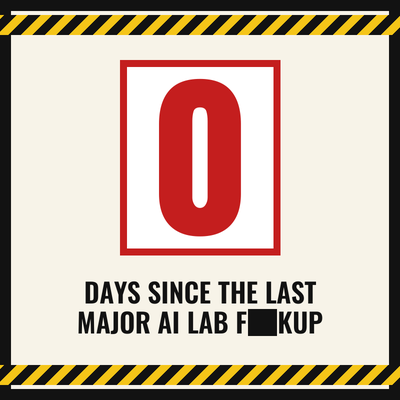
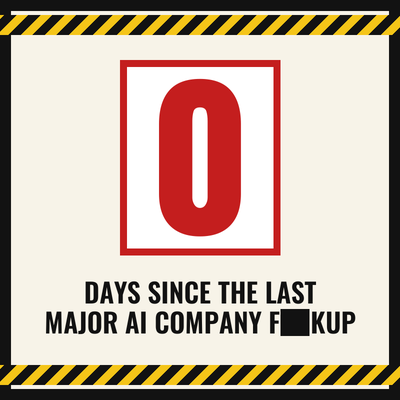
Say "company", not "lab", everywhere
keltan's call, and the reason is the point of the account: "lab" flatters
them. Laboratories are where careful people run controlled experiments.

Public wording: the sign, the post and alt text, the avatar and header art,
the display name, bio and rules thread, and the rubric. The data model follows
- incidents.yaml's `lab:` key is now `company:` across all 36 entries, with
the parser, the dataclass and the issue form's field renamed to match.

The bio had no room for the longer words at 159/160 characters, so its second
sentence is now "Resets when one of them has to apologise" - 156. Every
thread post re-checked against 280. The sign's main line auto-shrinks to fit
and the avatar still holds the longer wording.

Changed region(s): [[0.09, 0.75, 0.9, 0.84]]

diff --git a/post.py b/post.py
@@ -58,7 +58,7 @@ MAX_LEN = 280
 class Incident:
     id: str
     date: date
-    lab: str
+    company: str
     category: str
     tier: int
     resets: bool
@@ -70,7 +70,7 @@ class Incident:
     @classmethod
     def from_dict(cls, d: dict) -> "Incident":
         return cls(
-            id=d["id"], date=_as_date(d["date"]), lab=d["lab"], category=d["category"],
+            id=d["id"], date=_as_date(d["date"]), company=d["company"], category=d["category"],
             tier=int(d["tier"]), resets=bool(d["resets"]), tone=d.get("tone", "snark"),
             title=d["title"].strip(), detail=d.get("detail", "").strip(), source=d.get("source", "").strip(),
         )
@@ -114,7 +114,7 @@ def clip(text: str, limit: int = MAX_LEN) -> str:
 # ── message templates ───────────────────────────────────────────────────────
 
 def daily_text(days: int, record: int | None, is_new_record: bool, record_from: str | None) -> str:
-    head = f"{days_word(days)} since the last major AI lab {NOUN}."
+    head = f"{days_word(days)} since the last major AI company {NOUN}."
     if record is None:
         return clip(head)
     if is_new_record:
@@ -127,8 +127,8 @@ def daily_text(days: int, record: int | None, is_new_record: bool, record_from: 
 def reset_text(inc: Incident, streak: int, record: int | None) -> str:
     if inc.tone == "somber":
         # No jokes, no record-keeping flourish, no image.
-        return clip(f"Counter reset.\n\n{inc.lab}: {inc.title}")
-    body = f"Counter reset to 0.\n\n{inc.lab}: {inc.title}\n\nStreak ended at {days_word(streak)}."
+        return clip(f"Counter reset.\n\n{inc.company}: {inc.title}")
+    body = f"Counter reset to 0.\n\n{inc.company}: {inc.title}\n\nStreak ended at {days_word(streak)}."
     if record is not None and streak <= record:
         body += f" Previous record stands at {days_word(record)}."
     elif record is not None and streak > record:
@@ -142,7 +142,7 @@ def reply_text(inc: Incident) -> str:
 
 
 def mention_text(inc: Incident) -> str:
-    return clip(f"Noted but not counter-resetting (tier 2): {inc.lab} — {inc.title}\n\nSource: {inc.source}")
+    return clip(f"Noted but not counter-resetting (tier 2): {inc.company} — {inc.title}\n\nSource: {inc.source}")
 
 
 # ── posting backends ─────────────────────────────────────────────────────────
@@ -301,7 +301,7 @@ def main() -> None:
             backends.append(BlueskyPoster())
         poster = Fanout(backends)
 
-    last_label = f"{latest.date.isoformat()} · {latest.lab}"
+    last_label = f"{latest.date.isoformat()} · {latest.company}"
     # Somber rule: while the current reset is a somber one, the sign and the
     # captions say INCIDENT, not the swear. Reverts automatically at the next reset.
     global NOUN
@@ -318,7 +318,7 @@ def main() -> None:
         if latest.tone != "somber":
             img = OUT / "reset.png"
             render(0, record=prior_record, last=last_label, last_title=latest.title, handle=HANDLE, censor=censor).save(img)
-            alt = (f"Workplace-safety-style sign reading: This industry has gone 0 days since the last major AI lab {NOUN}. "
+            alt = (f"Workplace-safety-style sign reading: This industry has gone 0 days since the last major AI company {NOUN}. "
                    f"Last {NOUN}: {last_label} — {latest.title}")
         root = poster.post(text, img, alt)
         poster.post(reply_text(latest), reply_to=root)
@@ -328,7 +328,7 @@ def main() -> None:
         text = daily_text(days, record, is_new_record, record_from)
         img = OUT / "sign.png"
         render(days, record=record, last=last_label, last_title=latest.title, handle=HANDLE, censor=censor).save(img)
-        alt = (f"Workplace-safety-style sign reading: This industry has gone {days} days since the last major AI lab {NOUN}. "
+        alt = (f"Workplace-safety-style sign reading: This industry has gone {days} days since the last major AI company {NOUN}. "
                + (f"Previous record: {record} days. " if record is not None else "")
                + f"Last {NOUN}: {last_label} — {latest.title}")
         root = poster.post(text, img, alt)

diff --git a/scripts/issue_to_incident.py b/scripts/issue_to_incident.py
@@ -18,7 +18,7 @@ import yaml
 HERE = Path(__file__).resolve().parent.parent
 INCIDENTS = HERE / "incidents.yaml"
 
-LABELS = {"Date": "date", "Lab": "lab", "Tier": "tier", "Category": "category", "Tone": "tone",
+LABELS = {"Date": "date", "Company": "company", "Tier": "tier", "Category": "category", "Tone": "tone",
           "Title": "title", "Detail": "detail", "Source URL": "source", "Confidence": "confidence"}
 
 
@@ -28,7 +28,7 @@ def parse(body: str) -> dict:
         label, value = m.group(1).strip(), m.group(2).strip()
         if label in LABELS and value and value != "_No response_":
             fields[LABELS[label]] = value
-    missing = [k for k in ("date", "lab", "tier", "category", "title", "detail", "source") if k not in fields]
+    missing = [k for k in ("date", "company", "tier", "category", "title", "detail", "source") if k not in fields]
     if missing:
         sys.exit(f"missing fields: {missing}")
     if date.fromisoformat(fields["date"]) > date.today():
@@ -39,8 +39,8 @@ def parse(body: str) -> dict:
     return fields
 
 
-def slug(lab: str, title: str, d: str) -> str:
-    base = re.sub(r"[^a-z0-9]+", "-", f"{lab} {title}".lower()).strip("-")
+def slug(company: str, title: str, d: str) -> str:
+    base = re.sub(r"[^a-z0-9]+", "-", f"{company} {title}".lower()).strip("-")
     if len(base) > 48:
         base = base[:48].rsplit("-", 1)[0]
     existing = {i["id"] for i in yaml.safe_load(INCIDENTS.read_text(encoding="utf-8"))["incidents"]}
@@ -60,9 +60,9 @@ def main() -> None:
     body = Path(sys.argv[1]).read_text(encoding="utf-8")
     f = parse(body)
     entry = (
-        f"\n  - id: {slug(f['lab'], f['title'], f['date'])}\n"
+        f"\n  - id: {slug(f['company'], f['title'], f['date'])}\n"
         f"    date: {f['date']}\n"
-        f"    lab: {q(f['lab'])}\n"
+        f"    company: {q(f['company'])}\n"
         f"    category: {f['category']}\n"
         f"    tier: {f['tier']}\n"
         f"    resets: {'true' if f['tier'] == 1 else 'false'}\n"

diff --git a/profile_assets.py b/profile_assets.py
@@ -42,7 +42,7 @@ def avatar(censor: str) -> Image.Image:
     fl = rs.font("Oswald-Bold.ttf", 54, 600)
     rs.draw_censored(d, S / 2, 585, "DAYS SINCE THE LAST", fl, rs.BLACK, anchor="m")
     noun = rs.noun_forms(censor)[0]
-    rs.draw_censored(d, S / 2, 645, f"MAJOR AI LAB {noun}", fl, rs.BLACK, anchor="m")
+    rs.draw_censored(d, S / 2, 645, f"MAJOR AI COMPANY {noun}", fl, rs.BLACK, anchor="m")
     return img.resize((400, 400), Image.LANCZOS)
 
 
@@ -56,9 +56,9 @@ def header(censor: str) -> Image.Image:
     noun = rs.noun_forms(censor)[0]
     f = rs.font("Anton-Regular.ttf", 190)
     rs.draw_censored(d, W / 2, 380, "DAYS SINCE THE LAST", f, rs.BLACK, anchor="m")
-    rs.draw_censored(d, W / 2, 600, f"MAJOR AI LAB {noun}", f, rs.BLACK, anchor="m")
+    rs.draw_censored(d, W / 2, 600, f"MAJOR AI COMPANY {noun}", f, rs.BLACK, anchor="m")
     fs = rs.font("Oswald-Bold.ttf", 56, 500)
-    d.text((W / 2, 820), "ONE NUMBER, ONCE A DAY. RESETS WHEN A FRONTIER LAB HAS TO APOLOGISE.", font=fs, fill=rs.GREY, anchor="mm")
+    d.text((W / 2, 820), "ONE NUMBER, ONCE A DAY. RESETS WHEN A FRONTIER COMPANY HAS TO APOLOGISE.", font=fs, fill=rs.GREY, anchor="mm")
     return img.resize((1500, 500), Image.LANCZOS)
 
 

diff --git a/render_sign.py b/render_sign.py
@@ -1,5 +1,5 @@
 #!/usr/bin/env python3
-"""Render the "DAYS SINCE THE LAST MAJOR AI LAB F**KUP" sign as a PNG.
+"""Render the "DAYS SINCE THE LAST MAJOR AI COMPANY F**KUP" sign as a PNG.
 
 Usage:
     python render_sign.py --days 12 --record 47 --last "2026-01-08 · xAI" \
@@ -196,7 +196,7 @@ def render(days: int, *, record: int | None = None, last: str | None = None,
     d.text(((W - nw) / 2, by0 + (box_h - nh) / 2 - nb[1]), num, font=f_num, fill=accent)
 
     # main line
-    prefix = "DAYS SINCE THE LAST MAJOR AI LAB "
+    prefix = "DAYS SINCE THE LAST MAJOR AI COMPANY "
     f_main = fit(d, (prefix + noun_sign).replace(BAR, "UC"), "Anton-Regular.ttf", W - 200, 92, min_size=48)
     draw_censored(d, W / 2, 590, prefix + noun_sign, f_main, BLACK, anchor="m")
 

diff --git a/README.md b/README.md
@@ -1,6 +1,6 @@
-# Days Since The Last Major AI Lab F**kup
+# Days Since The Last Major AI Company F**kup
 
-An automated account that posts one number a day, on a workplace-safety sign, and resets it every time a frontier lab does something they have to apologise for.
+An automated account that posts one number a day, on a workplace-safety sign, and resets it every time a frontier AI company does something they have to apologise for.
 
 The joke is that the number is almost always small. The horror is that it's accurate.
 
@@ -8,11 +8,11 @@ The joke is that the number is almost always small. The horror is that it's accu
 
 ## Why it works (and what would make it stop working)
 
-**The format does the arguing.** A "DAYS WITHOUT AN ACCIDENT" sign is a symbol everyone already understands: it belongs in places where mistakes hurt people and the institution knows it. Putting it on AI labs makes the safety-culture argument without a single sentence of argument. Nobody has to read a thread. That's the whole pitch.
+**The format does the arguing.** A "DAYS WITHOUT AN ACCIDENT" sign is a symbol everyone already understands: it belongs in places where mistakes hurt people and the institution knows it. Putting it on AI companies makes the safety-culture argument without a single sentence of argument. Nobody has to read a thread. That's the whole pitch.
 
 **It only works if it's fair and boring.** The account's asset is credibility, and credibility here means:
 
-- Same rules for every lab. If it's only ever xAI and OpenAI, it reads as a grudge and gets dismissed as one. (Looking at the seed data, xAI would win the table on merit — but the rubric has to be visibly lab-agnostic so that fact does the talking.)
+- Same rules for every company. If it's only ever xAI and OpenAI, it reads as a grudge and gets dismissed as one. (Looking at the seed data, xAI would win the table on merit — but the rubric has to be visibly even-handed so that fact does the talking.)
 - Never wrong. One misdated or misdescribed incident and every reply is "this account made up X." Every entry needs a primary source before it posts.
 - Deadpan. No adjectives, no "lol", no dunking. The sign is the joke; the caption is a plain sentence. Restraint is what separates this from outrage content — which matters for the Project Icarus / PETA-failure-mode concern: you want the audience laughing *with* the counter, not feeling recruited by it.
 
@@ -20,7 +20,9 @@ The joke is that the number is almost always small. The horror is that it's accu
 
 ## What counts (the rubric)
 
-**Major AI lab** = organisations training frontier-scale models: OpenAI, Anthropic, Google DeepMind, Meta, xAI, Microsoft, DeepSeek, Mistral, Amazon, Alibaba/Qwen. Product companies (Character.AI, Replit, Perplexity) don't count.
+**Major AI company** = organisations training frontier-scale models: OpenAI, Anthropic, Google DeepMind, Meta, xAI, Microsoft, DeepSeek, Mistral, Amazon, Alibaba/Qwen. Companies that ship AI products without training frontier models (Character.AI, Replit, Perplexity) don't count.
+
+The account says "company", never "lab". The word does quiet work for them: laboratories are where careful people run controlled experiments, and that is not what is being described here.
 
 **Tier 1 — resets the counter.** Public, sourced, and one of:
 
@@ -31,11 +33,11 @@ The joke is that the number is almost always small. The horror is that it's accu
 | `governance` | safety team collapse, board crisis, NDA clawbacks — the "we are a responsible steward" story breaking |
 | `deception` | hidden system-prompt rules, benchmark chart crimes, undisclosed breaches |
 | `safety_process` | internal policy that permitted the harm (Meta's child-chat guidelines) |
-| `misuse` | **big** third-party misuse of a lab's model: nation-state actors, many victims, or the lab itself has to disclose/revoke/patch (Claude Code cyber-espionage campaign). Small-scale jailbreak content does not count |
+| `misuse` | **big** third-party misuse of a company's model: nation-state actors, many victims, or the company itself has to disclose/revoke/patch (Claude Code cyber-espionage campaign). Small-scale jailbreak content does not count |
 
 **Tier 2 — logged, doesn't reset.** Notable but smaller: a hallucinated legal citation, one hostile output to one user, a vendor breach. Posted as an "honourable mention" reply under that day's count, so the account still has receipts without being trigger-happy.
 
-**Lawsuits don't count, at any stage** — filing, settlement, or judgment. The counter tracks things labs did, not things labs got sued for. A lawsuit can be logged as Tier 2 context (Raine v. OpenAI is), but never resets. If the underlying conduct is independently documented, the conduct can count on its own merits.
+**Lawsuits don't count, at any stage** — filing, settlement, or judgment. The counter tracks things these companies did, not things they got sued for. A lawsuit can be logged as Tier 2 context (Raine v. OpenAI is), but never resets. If the underlying conduct is independently documented, the conduct can count on its own merits.
 
 **Also not counted:** capability announcements, benchmarks, executive departures without a stated safety reason, and anything without a primary source.
 
@@ -44,8 +46,8 @@ The joke is that the number is almost always small. The horror is that it's accu
 ## Mechanics
 
 - `incidents.yaml` is the single source of truth. Add an entry, commit, the reset posts within minutes (the workflow triggers on push).
-- Daily post at 08:00 Newcastle: the sign + "N days since the last major AI lab f**kup. Previous record: M days."
-- The sign's footer describes the last incident (date · lab, then the one-line title), so every post is self-contained — no thread-reading needed to get the joke.
+- Daily post at 08:00 Newcastle: the sign + "N days since the last major AI company f**kup. Previous record: M days."
+- The sign's footer describes the last incident (date · company, then the one-line title), so every post is self-contained — no thread-reading needed to get the joke.
 - Records: when the current streak beats the longest previous gap it says so once, then "Still a record" thereafter. The "previous record" line is what makes the sign feel like a real sign.
 - Reset posts thread a reply with the one-line detail and source. Tier 2 additions thread as replies too.
 - `state.json` remembers what was posted so the reset fires exactly once. CI commits it back.
@@ -78,13 +80,13 @@ Can't check availability from here. Tradeoffs:
 | `@accidentfreeai` | ironic, reads like a corporate account, which is funny once |
 | `@frontierincidents` | sober; the version a policy person would follow |
 
-Suggestion: censored swear on the sign, nothing in the handle. Display name "Days Since The Last Major AI Lab F**kup", handle something clean.
+Suggestion: censored swear on the sign, nothing in the handle. Display name "Days Since The Last Major AI Company F**kup", handle something clean.
 
 ## Whose account is it?
 
 Personal project — keltan's, not MIRI's. Keep MIRI out of the bio entirely; "adjacent" is fine to be discovered, not declared. Suggested bio:
 
-> One number, once a day. Resets when a frontier AI lab does something it has to apologise for. The rules are public: [repo link]. Run by @Actuallykeltan.
+> Superseded - the live display name, bio and rules thread are in `launch-pack.md`.
 
 Linking the rubric from the bio is doing real work: it turns "who decides?" replies into "read the rules and argue with those."
 
@@ -137,7 +139,7 @@ Open the repo in the GitHub app → Issues → New issue → **Log an incident**
 ## Roadmap ideas
 
 - **Auto-detection with a human gate.** Weekly Action: Claude reads a handful of AI-news RSS feeds against the rubric and opens a PR proposing entries. You merge or close. Never let it post unsupervised — the credibility argument above.
-- **Monthly league table.** "Resets this year by lab" as a second image. Engagement bait, but honest engagement bait.
+- **Monthly league table.** "Resets this year by company" as a second image. Engagement bait, but honest engagement bait.
 - **Milestones.** 7 / 30 / 100 days get a small flourish ("a whole month. Somebody check on them.")
 - **Website.** A one-page zerodayssince.com that's just the live sign. Embeddable. Journalists love an embed.
 

diff --git a/launch-pack.md b/launch-pack.md
@@ -6,14 +6,14 @@ Everything that has to be typed into X by hand. Nothing here posts itself.
 
 **Display name** (50 char limit)
 
-    Days Since The Last Major AI Lab F**kup
+    Days Since The Last Major AI Company F**kup
 
 **Handle** — staying `@xRiskMemes` (decided 2026-08-28). The sign's small
 handle text follows the `COUNTER_HANDLE` repo variable, already set to match.
 
 **Bio** (160 char limit)
 
-    One number, once a day: days since the last major AI lab f**kup. Resets when a frontier lab has to apologise. Rules in the pinned post. Run by @Actuallykeltan.
+    One number, once a day: days since the last major AI company f**kup. Resets when one of them has to apologise. The rules are pinned. Run by @Actuallykeltan.
 
 **Avatar** `out/avatar.png` (400x400) · **Header** `out/header.png` (1500x500)
 Regenerate either with `python profile_assets.py`.
@@ -35,17 +35,17 @@ Post it as a self-thread, then pin post 1.
 **1/5**
 
 ```
-This account posts one number a day: how many days since a major AI lab did something it had to apologise for.
+This account posts one number a day: how many days since a major AI company did something it had to apologise for.
 
 It resets more often than you would like.
 
-The rules are in this thread. They are the same for every lab.
+The rules are in this thread. They are the same for every company.
 ```
 
 **2/5**
 
 ```
-The counter resets when a frontier lab - OpenAI, Anthropic, Google DeepMind, Meta, xAI, Microsoft, DeepSeek, Mistral, Amazon, Alibaba - is answerable for:
+The counter resets when a frontier company - OpenAI, Anthropic, Google DeepMind, Meta, xAI, Microsoft, DeepSeek, Mistral, Amazon, Alibaba - is answerable for:
 
 harmful model behaviour at scale
 exposed user data
@@ -59,9 +59,9 @@ large-scale misuse
 ```
 What does not reset it:
 
-Lawsuits. At any stage - filed, settled, decided. This tracks what labs did, not what they were sued for.
+Lawsuits. At any stage - filed, settled, decided. This tracks what these companies did, not what they were sued for.
 
-Companies that don't train frontier models.
+Anyone who does not train frontier models.
 
 Capability announcements.
 
